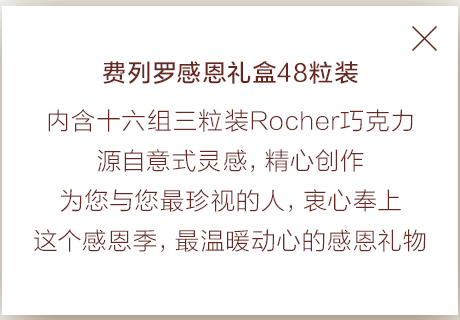
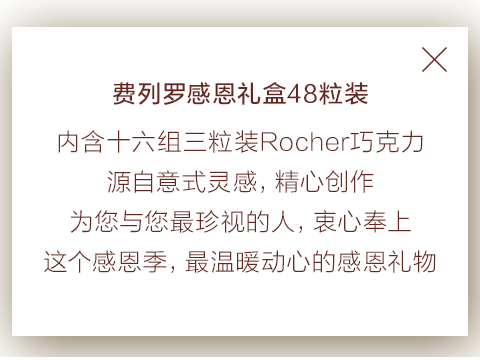
update js and css it's almost done

diff --git a/index.html b/index.html
@@ -17,19 +17,19 @@
 			<div class="swiper-container">
   				<div class="swiper-wrapper">
     				<div class="swiper-slide slide1">
-    					<div class="text ani" swiper-animate-effect="fadeInUp" swiper-animate-duration="0.6s" swiper-animate-delay="0.2s">
+    					<div class="text ani" swiper-animate-effect="fadeInUp" swiper-animate-duration="0.8s" swiper-animate-delay="0.4s">
 	    					<p class="text-center">有时候，<br/>谢谢是一句不是那么好开口的话<br/>说多了，显得生分<br/>不说，显得不懂感恩</p>
 	    				</div>
-	    				<div class="title ani" swiper-animate-effect="fadeInUp" swiper-animate-duration="0.5s" swiper-animate-delay="0.8s"></div>
-	    				<a class="arrow-btn ani" swiper-animate-effect="bounce" swiper-animate-duration="0.5s" swiper-animate-delay="1s"><img src="image/arrow-down.png"></a>
+	    				<div class="title ani" swiper-animate-effect="fadeInUp" swiper-animate-duration="0.8s" swiper-animate-delay="1.2s"></div>
+	    				<a class="arrow-btn ani infinite" swiper-animate-effect="moving" swiper-animate-duration="1s" swiper-animate-delay="2s"><img src="image/arrow-down.png"></a>
     				</div>
     				<div class="swiper-slide stop-swiping slide2 ">
-    					<div class="title ani" swiper-animate-effect="fadeInUp" swiper-animate-duration="0.5s" swiper-animate-delay="0.8s"></div>
-    					<div class="text ani" swiper-animate-effect="fadeInUp" swiper-animate-duration="0.6s" swiper-animate-delay="0.2s">
+    					<div class="title ani" swiper-animate-effect="fadeInUp" swiper-animate-duration="0.8s" swiper-animate-delay="0.4s"></div>
+    					<div class="text ani" swiper-animate-effect="fadeInUp" swiper-animate-duration="0.8s" swiper-animate-delay="1.2s">
 	    					<p class="text-center">您的谢谢，可以请金句女王马薇薇替您开口<br/>也可以让宝岛辩魂黄执中深情言谢</p>
 	    				</div>
 	    				
-	    				<a class="btn btn-lg" data-slide="3"></a>
+	    				<a class="btn btn-lg ani" data-slide="3" swiper-animate-effect="fadeIn" swiper-animate-duration="0.8s" swiper-animate-delay="2s"></a>
     				</div>
     				<div class="swiper-slide stop-swiping slide3">
     					<a class="btn ani" data-slide="4" swiper-animate-effect="fadeInRight" swiper-animate-duration="0.8s" swiper-animate-delay="0.2s"></a>
@@ -45,6 +45,7 @@
 		<script type="text/javascript" src="js/swiper.min.js"></script>
 		<script type="text/javascript" src="js/swiper.animate.min.js"></script>
 		<script type="text/javascript">
+		$(function(){
 			var swiper = new Swiper('.swiper-container',
 				{direction : 'vertical',
 				noSwiping : true,
@@ -57,9 +58,44 @@
     						swiperAnimate(swiper); //每个slide切换结束时也运行当前slide动画
   						}
   				 });
+			var unbindEvent = function(){
+				$('.swiper-slide .float-btn').unbind('click');
+				$('.swiper-slide .float-wrap .float-close').unbind('click');
+			}
+			var bindEvent = function(){
+				$('.swiper-slide .float-btn').bind('click',function(event){
+					event.stopPropagation();
+					event.preventDefault();
+					var slide = $(this).parent('.swiper-slide');
+					var floatWrap = slide.find(".float-wrap");
+					if(floatWrap.is(':visible')){
+						return;
+					}else{
+						floatWrap.fadeIn();
+					}
+				});
+
+				$('.swiper-slide .float-wrap .float-close').bind('click',function(event){
+					event.stopPropagation();
+					event.preventDefault();
+					var floatWrap = $(this).parent('.float-wrap');
+					if(floatWrap.is(':visible')){
+						floatWrap.fadeOut();
+					}else{
+						return;
+					}
+				});
+
+				$("textarea").bind('input propertychange', function() {  
+        			var maxLength = $(this).attr('maxlength');  
+        			if ($(this).val().length > maxLength) {  
+            			$(this).val($(this).val().substring(0, maxLength));  
+        			}  
+   				});
+			};
+
 			$('.swiper-slide .btn').bind('click',function(){
 				var s = $(this).attr('data-slide');
-				console.log(s);
 				// var newSlide = document.createElement('div');
 				// newSlide.classList.add('swiper-slide');
 				var newSlide;
@@ -68,29 +104,31 @@
 						swiper.slideNext();
 						break;
 					case '4':
-						newSlide = '<div class="Swiper-slide stop-swiping slide4"><div class="title"></div><a class="btn"></a><a class="float-btn"></a><div class="float-wrap"><a class="float-close"></a></div></div>';
+						newSlide = '<div class="swiper-slide stop-swiping slide4"><div class="title"></div><a class="btn" href=""></a><a class="float-btn"></a><div class="float-wrap"><img src="image/float-content.png"/><a class="float-close"></a></div></div>';
 						swiper.appendSlide(newSlide);
 						swiper.slideNext();
+						unbindEvent();
+						bindEvent();
 						break;
 					case '5':
-						newSlide = '<div class="Swiper-slide stop-swiping slide5"><div class="title"></div><a class="btn"></a><a class="float-btn"></a><div class="float-wrap"><a class="float-close"></a></div></div>';
+						newSlide = '<div class="swiper-slide stop-swiping slide5"><div class="title"></div><a class="btn" href=""></a><a class="float-btn"></a><div class="float-wrap"><img src="image/float-content.png"/><a class="float-close"></a></div></div>';
 						swiper.appendSlide(newSlide);
 						swiper.slideNext();
+						unbindEvent();
+						bindEvent();
 						break;
 					case '6':
-						newSlide = '<div class="Swiper-slide stop-swiping slide6"><a class="btn"></a><a class="float-btn"></a><div class="float-wrap"><a class="float-close"></a></div></div>';
+						newSlide = '<div class="swiper-slide stop-swiping slide6"><a class="btn"></a><div class="input-field"><textarea maxlength="34"></textarea></div><a class="float-btn" href=""></a><div class="float-wrap"><img src="image/float-content.png"/><a class="float-close"></a></div></div>';
 						swiper.appendSlide(newSlide);
 						swiper.slideNext();
+						unbindEvent();
+						bindEvent();
 						break;
 				}
-				
-				
-				
 			});
 
-			$('.swiper-slide .float-btn').bind('click',function(){
-				
-			});
+			
+		});		
 		</script>
 	</body>
 </html>

diff --git a/css/style.css b/css/style.css
@@ -69,7 +69,7 @@ a{color: #fff;text-decoration: none;}
     background-size: cover;
     font-size: 1.35rem;
     line-height: 1.6;
-    color: #000;
+    color: #68271f;
 }
 .swiper-slide .text{
     position: relative;
@@ -87,12 +87,13 @@ a{color: #fff;text-decoration: none;}
 }
 .slide1 .text{
     margin-top: 15rem;
+    line-height: 2.4;
 }
 .slide1 .title{
-    width: 28rem;
-    height: 8rem;
+    width: 26rem;
+    height: 7rem;
     background-image: url('../image/title.png');
-    background-position: 3.2rem 10px;
+    background-position: 2.5rem 0.5rem;
 }
 .slide1 .arrow-btn{
     width: 3rem;
@@ -105,16 +106,16 @@ a{color: #fff;text-decoration: none;}
     margin-top: 1rem;
 }
 .slide2 .title{
-    margin-top: 29rem;
-    width: 27rem;
-    height: 8rem;
+    margin-top: 30rem;
+    width: 24rem;
+    height: 6.5rem;
     background-image: url('../image/title.png');
     background-position: 0.5rem -6rem;
     
 }
 .slide2 .btn{
     position: relative;
-    margin: 0 auto;
+    margin: 0.5rem auto;
     width: 20rem;
     height: 4.5rem;
     background-image: url('../image/btn.png');
@@ -148,12 +149,12 @@ a{color: #fff;text-decoration: none;}
     background-image: url('../image/title.png');
     background-position: 3rem -13.5rem;
 }
-.slide4 .btn{
+.slide4 .btn, .slide5 .btn,.slide6 .btn{
     position: relative;
     width: 18rem;
-    height: 3.8rem;
+    height: 3.5rem;
     background-image: url('../image/btn.png');
-    background-position: 2.5rem -13.5rem;
+    background-position: 2.5rem -13.6rem;
     display: block;
     margin: 0.5rem auto 0 auto;
 }
@@ -164,15 +165,6 @@ a{color: #fff;text-decoration: none;}
     background-image: url('../image/title.png');
     background-position: 1.5rem -20rem;
 }
-.slide5 .btn{
-    position: relative;
-    width: 18rem;
-    height: 3.8rem;
-    background-image: url('../image/btn.png');
-    background-position: 2.5rem -13.5rem;
-    display: block;
-    margin: 0.5rem auto 0 auto;
-}
 .slide6 .title{
     margin-top: 27rem;
     width: 26rem;
@@ -181,13 +173,10 @@ a{color: #fff;text-decoration: none;}
     background-position: 3rem -14rem;
 }
 .slide6 .btn{
-    position: relative;
-    width: 18rem;
-    height: 3.8rem;
-    background-image: url('../image/btn.png');
-    background-position: 2.5rem -13.5rem;
-    display: block;
-    margin: 0.8rem auto 0 auto;
+    position: absolute;
+    top: 33rem;
+    left: 50%;
+    margin-left: -9rem;
 }
 
 .float-btn{
@@ -204,19 +193,76 @@ a{color: #fff;text-decoration: none;}
 .float-wrap{
     position: absolute;
     display: none;
-    width: 20.4rem;
-    height: 14rem;
-    background-image: url(../image/float-wrap.png);
+    width: 24.5rem;
+    height: 15rem;
+    background-image: url(../image/float-bg.png);
     background-size: cover;
     left: 50%;
-    margin-left: -10.2rem;
-    top: 33rem;
-    background-color: #ffffff;
+    margin-left: -12.25rem;
+    top: 32.5rem;
+    background-position: center;
 }
+.float-wrap img{width: 20rem;}
 .float-wrap .float-close{
     position: absolute;
     width: 4rem;
     height: 4rem;
-    top: 0;
-    right: 0;
+    top: 0.75rem;
+    right: 2.5rem;
+}
+
+.input-field{
+    position: absolute;
+    width: 22rem;
+    height: 8rem;
+    top: 21rem;
+    left: 50%;
+    margin-left: -11rem;
+}
+
+.input-field textarea{
+    position: relative;
+    resize: none;
+    border: none;
+    -webkit-appearance: none;
+    width: 100%;
+    height: 100%;
+    max-height: 100%;
+    background: transparent;
+    padding: 0.5rem 1.5rem 0 1.5rem;
+    line-height: 3.5;
+    overflow: hidden;
+}
+
+@-webkit-keyframes moving {
+  0% {
+    opacity: 0;
+    -webkit-transform: translate3d(0, 0, 0);
+    transform: translate3d(0, 0, 0);
+  }
+
+  100% {
+    opacity: 0.9;
+    -webkit-transform: translate3d(0, 50%, 0);
+    transform: translate3d(0, 50%, 0);
+  }
+}
+
+/*@keyframes moving {
+  0% {
+    opacity: 0.1;
+    -webkit-transform: translate3d(0, 0, 0);
+    transform: translate3d(0, 0, 0);
+  }
+  100% {
+    opacity: 1;
+    -webkit-transform: translate3d(0, 50%, 0);
+    transform: translate3d(0, 50%, 0);
+  }
+}*/
+
+.moving {
+  -webkit-animation-name: moving;
+  animation-name: moving;
+  transition:all ease-in-out;
 }

diff --git a/css/animate.css b/css/animate.css
@@ -1282,8 +1282,8 @@ Copyright (c) 2015 Daniel Eden
 @-webkit-keyframes fadeInUp {
   0% {
     opacity: 0;
-    -webkit-transform: translate3d(0, 25%, 0);
-    transform: translate3d(0, 30%, 0);
+    -webkit-transform: translate3d(0, 10%, 0);
+    transform: translate3d(0, 10%, 0);
   }
 
   100% {
@@ -1296,8 +1296,8 @@ Copyright (c) 2015 Daniel Eden
 @keyframes fadeInUp {
   0% {
     opacity: 0;
-    -webkit-transform: translate3d(0, 25%, 0);
-    transform: translate3d(0, 30%, 0);
+    -webkit-transform: translate3d(0, 10%, 0);
+    transform: translate3d(0, 10%, 0);
   }
 
   100% {
